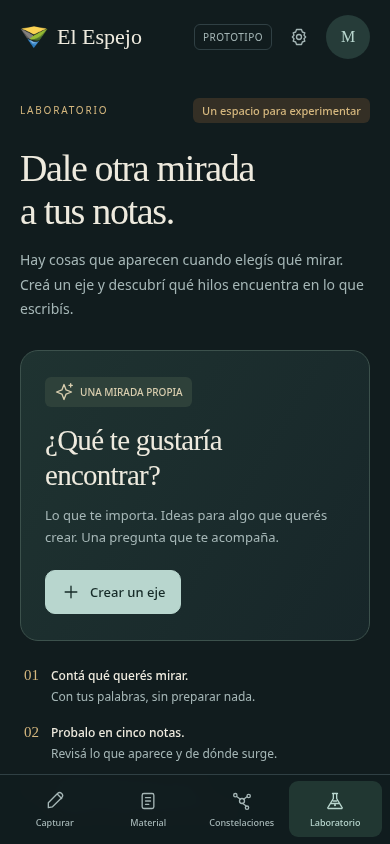
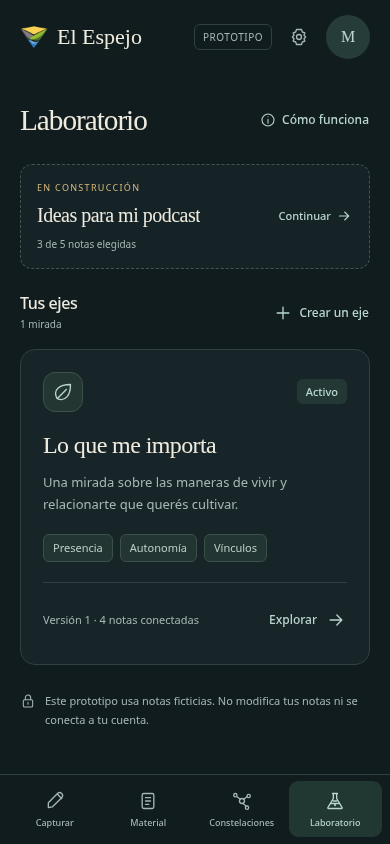
prototype: compact laboratory home and first-visit guidance

diff --git a/prototypes/laboratorio/app.js b/prototypes/laboratorio/app.js
@@ -5,6 +5,7 @@
   const $ = (selector) => document.querySelector(selector);
   const escape = (value = '') => String(value).replace(/[&<>"']/g, c => ({ '&': '&amp;', '<': '&lt;', '>': '&gt;', '"': '&quot;', "'": '&#39;' }[c]));
   const paths = {
+    info: '<circle cx="12" cy="12" r="9"/><path d="M12 11v6M12 7h.01"/>',
     capture: '<path d="m15 4 5 5M4 20l5-1L20 8a2 2 0 0 0-5-5L4 14Z"/>',
     notes: '<rect x="5" y="3" width="14" height="18" rx="2"/><path d="M9 8h6M9 12h6M9 16h4"/>',
     graph: '<circle cx="12" cy="12" r="3"/><circle cx="4" cy="5" r="2"/><circle cx="20" cy="6" r="2"/><circle cx="18" cy="20" r="2"/><path d="m6 7 4 3m4 0 4-3m-5 8 4 3"/>',
@@ -38,6 +39,7 @@
   const state = {
     draft: stored?.draft?.sample ? stored.draft : stored?.initialized ? null : draftDemo(),
     axes: Array.isArray(stored?.axes) ? stored.axes : [demoAxis()],
+    welcomeDismissed: stored?.welcomeDismissed === true,
     page: 'inicio', preview: null, history: [], historyIndex: -1, resultMode: 'graph',
     selected: '', selectedTag: '', graphRevealed: null, zoom: 1, search: '',
     graphVisibility: { note: true, finding: true, label: true }, graphModel: null, graphEntity: null, graphFocusTag: '',
@@ -51,7 +53,7 @@
 
   function save() {
     try {
-      localStorage.setItem(STORE, JSON.stringify({ initialized: true, draft: state.draft, axes: state.axes }));
+      localStorage.setItem(STORE, JSON.stringify({ initialized: true, draft: state.draft, axes: state.axes, welcomeDismissed: state.welcomeDismissed }));
       storageAvailable = true;
     } catch { storageAvailable = false; }
   }
@@ -73,16 +75,16 @@
   function shell(content) {
     return `<div class="layout"><aside class="sidebar" aria-label="Tu espacio"><a class="brand" href="../app-refresh/#capture">${brand}</a><p class="tagline">Un espacio para escucharte.</p><nav aria-label="Secciones principales">${navigation()}</nav><footer><a class="button" href="../app-refresh/#settings">${icon('settings')}Ajustes</a><p>Un lugar para probar, a tu ritmo.</p></footer></aside><div class="workspace"><header class="topbar"><a class="brand" href="../app-refresh/#capture">${brand}</a><span class="top-context">TU ESPACIO PERSONAL / LABORATORIO</span><div class="top-actions"><span class="prototype-label">PROTOTIPO</span><button class="icon-button quiet" data-action="scenarios" aria-label="Probar escenarios de la demostración" title="Probar escenarios">${icon('settings')}</button><button class="avatar" data-action="about" aria-label="Información de esta demostración">M</button></div></header><main id="main" tabindex="-1">${content}</main><nav class="bottom-nav" aria-label="Secciones principales, móvil">${navigation(true)}</nav></div></div>`;
   }
-  function sketch() {
-    return `<svg class="hero-sketch" viewBox="0 0 310 230" fill="none" aria-hidden="true"><ellipse cx="166" cy="115" rx="105" ry="86" stroke="#4f6657" stroke-dasharray="2 7" transform="rotate(-18 166 115)"/><path d="m53 92 93 34 70-76m-70 76 104 42m-104-42 20 76m-20-76 117-25m-117 25-58 58" stroke="#6c8270"/><circle cx="146" cy="126" r="28" fill="#354a3b" stroke="#b5cbb0"/><circle cx="146" cy="126" r="8" stroke="#d7d5ac"/><circle cx="53" cy="92" r="9" fill="#749385"/><circle cx="216" cy="50" r="6" fill="#b5a47a"/><circle cx="250" cy="168" r="12" stroke="#b3c89e"/><circle cx="166" cy="202" r="5" fill="#819b84"/><circle cx="263" cy="101" r="7" fill="#8eaa97"/><circle cx="88" cy="184" r="10" stroke="#9eb293"/><path d="M281 43v12m-6-6h12M80 31v8m-4-4h8" stroke="#c5ba8f"/></svg>`;
-  }
   function home() {
     const draft = state.draft;
-    return `<div class="intro"><div class="heading-row"><p class="kicker">LABORATORIO</p>${pill('Un espacio para experimentar', 'warm')}</div><h1>Dale otra mirada<br>a tus notas.</h1><p>Hay cosas que aparecen cuando elegís qué mirar.<br class="desktop-break"> Creá un eje y descubrí qué hilos encuentra en lo que escribís.</p></div>
-      <section class="hero" aria-labelledby="new-axis-title">${sketch()}<span class="pill">${icon('spark')}UNA MIRADA PROPIA</span><h2 class="hero-title" id="new-axis-title">¿Qué te gustaría<br>encontrar?</h2><p>Lo que te importa. Ideas para algo que querés crear. Una pregunta que te acompaña.</p><button class="primary" data-action="new">${icon('plus')}Crear un eje</button></section>
-      <div class="how-it-works" aria-label="Cómo funciona"><div><span>01</span><p><strong>Contá qué querés mirar.</strong><br>Con tus palabras, sin preparar nada.</p></div><div><span>02</span><p><strong>Probalo en cinco notas.</strong><br>Revisá lo que aparece y de dónde surge.</p></div><div><span>03</span><p><strong>Ajustalo hasta que te sirva.</strong><br>Después, elegí si querés activarlo.</p></div></div>
-      ${draft ? `<div class="section-heading"><h2>Tu mirada en construcción</h2><span class="meta">Sólo en este dispositivo</span></div><article class="axis-card draft"><div class="card-top"><span class="axis-symbol">${icon('edit')}</span>${pill('Borrador', 'warm')}</div><h3>${escape(draft.title || 'Un eje por descubrir')}</h3><p>${escape(draft.purpose || 'Todavía estás encontrando las palabras para esta mirada.')}</p><div class="card-footer"><span class="meta">${draft.sample.length} de 5 notas elegidas</span><button class="text-button" data-action="resume">Continuar${icon('arrow')}</button></div></article>` : ''}
-      <div class="section-heading"><h2>Tus ejes</h2><span class="meta">${state.axes.length} ${state.axes.length === 1 ? 'mirada' : 'miradas'}</span></div><div class="axes-grid">${state.axes.length ? state.axes.map(axisCard).join('') : `<div class="empty"><h2>Tu primera mirada empieza acá.</h2><p>No necesitás tener todo claro. Podés probar y ajustar antes de activar un eje.</p><button class="secondary" data-action="new">Crear mi primer eje${icon('arrow')}</button></div>`}</div><p class="footnote">${icon('lock')}Este prototipo usa notas ficticias. No modifica tus notas ni se conecta a tu cuenta.</p>`;
+    const showWelcome = !state.welcomeDismissed && !draft && !state.axes.length;
+    return `<header class="home-header"><h1>Laboratorio</h1><button class="text-button home-help" data-action="lab-help">${icon('info')}Cómo funciona</button></header>
+      ${draft ? `<section class="draft-resume" aria-labelledby="resume-title"><div><p class="kicker">EN CONSTRUCCIÓN</p><h2 id="resume-title">${escape(draft.title || 'Tu próxima mirada')}</h2><span class="meta">${draft.sample.length ? `${draft.sample.length} de 5 notas elegidas` : 'Tu borrador está listo para continuar'}</span></div><button class="text-button" data-action="resume">Continuar${icon('arrow')}</button></section>` : ''}
+      ${showWelcome ? `<section class="welcome-card" aria-labelledby="welcome-title"><span class="welcome-symbol" aria-hidden="true">${icon('spark')}</span><h2 id="welcome-title">Una mirada nueva sobre tus notas</h2><p>Un eje busca lo que te interesa observar. Podés probarlo en cinco notas y ajustarlo antes de activarlo.</p><div class="welcome-actions"><button class="primary" data-action="new">Crear mi primer eje${icon('arrow')}</button><button class="quiet" data-action="dismiss-welcome">Ahora no</button></div></section>` : `<div class="section-heading axes-heading"><div><h2>Tus ejes</h2>${state.axes.length ? `<span class="meta">${state.axes.length} ${state.axes.length === 1 ? 'mirada' : 'miradas'}</span>` : ''}</div><button class="text-button" data-action="new">${icon('plus')}Crear un eje</button></div><div class="axes-grid">${state.axes.length ? state.axes.map(axisCard).join('') : `<div class="empty"><h2>Tu primera mirada empieza acá.</h2><p>Creá un eje cuando quieras. La ayuda sigue disponible en «Cómo funciona».</p><button class="secondary" data-action="new">Crear mi primer eje${icon('arrow')}</button></div>`}</div>`}
+      <p class="footnote">${icon('lock')}Este prototipo usa notas ficticias. No modifica tus notas ni se conecta a tu cuenta.</p>`;
+  }
+  function laboratoryHelp() {
+    showModal('Cómo funciona Laboratorio', `<p class="help-intro">Una mirada para encontrar nuevos hilos en lo que escribís, a tu ritmo.</p><div class="help-topics"><details><summary>Qué es un eje</summary><p>Es una mirada sobre tus notas: lo que te importa, ideas para un proyecto o una pregunta que te acompaña. Contá qué querés encontrar con tus palabras.</p></details><details><summary>Probar y ajustar</summary><ol><li><strong>Contá qué querés mirar.</strong> Podés partir de un ejemplo.</li><li><strong>Elegí cinco notas.</strong> Revisá los hallazgos y las citas que los sustentan.</li><li><strong>Ajustá hasta que te sirva.</strong> Después, elegí si querés activar el eje para notas nuevas.</li></ol><p>Las notas de la prueba quedan aparte de los resultados del eje activo.</p></details><details><summary>Explorar los resultados</summary><p>Tocá notas o etiquetas para abrir sus conexiones en el grafo. Las referencias de abajo permiten mostrar u ocultar tipos de nodo.</p><p>Cada hallazgo conserva su cita y el acceso a la nota completa. También podés recorrer todo desde la vista Lista.</p></details></div><div class="modal-actions"><button class="secondary" data-action="close-modal">Entendido</button></div>`, 'help-sheet');
   }
   function axisCard(a) {
     return `<article class="axis-card"><div class="card-top"><span class="axis-symbol sage">${icon(a.kind === 'podcast' ? 'audio' : 'leaf')}</span>${pill(a.enabled ? 'Activo' : 'En pausa', a.enabled ? '' : 'neutral')}</div><h3>${escape(a.title)}</h3><p>${a.kind === 'podcast' ? 'Ideas que merecen un espacio para volver a pensarlas.' : 'Una mirada sobre las maneras de vivir y relacionarte que querés cultivar.'}</p>${a.hasResults ? tags(a.kind === 'podcast' ? ['Relatos cotidianos', 'Conversaciones'] : ['Presencia', 'Autonomía', 'Vínculos']) : '<span class="meta">Esperando tus próximas notas</span>'}<div class="card-footer"><span class="meta">Versión ${a.version}${a.hasResults ? ' · 4 notas conectadas' : ''}</span><button class="text-button" data-action="open-axis" data-id="${escape(a.id)}">${a.hasResults ? 'Explorar' : 'Ver eje'}${icon('arrow')}</button></div></article>`;
@@ -280,15 +282,15 @@
     else location.hash = page;
   }
   function freshDraft() {
-    jobGeneration++; state.busy = false; state.scenario = '';
+    jobGeneration++; state.busy = false; state.scenario = ''; state.welcomeDismissed = true;
     state.draft = { title: '', purpose: '', sample: [], kind: '', step: 1, revision: 1, comments: [] };
     state.preview = null; state.history = []; state.historyIndex = -1; state.returnToResults = false;
     state.search = ''; state.feedback = ''; save(); go('crear');
   }
-  function showModal(title, body) {
+  function showModal(title, body, variant = '') {
     if (!$('.modal')) previousFocus = document.activeElement;
     $('#app').inert = true; document.body.style.overflow = 'hidden';
-    $('#modal-root').innerHTML = `<div class="modal-backdrop"><section class="modal" role="dialog" aria-modal="true" aria-labelledby="modal-title"><header class="modal-header"><h2 id="modal-title">${title}</h2><button class="icon-button" data-action="close-modal" aria-label="Cerrar diálogo">${icon('close')}</button></header><div class="modal-body">${body}</div></section></div>`;
+    $('#modal-root').innerHTML = `<div class="modal-backdrop"><section class="modal ${variant}" role="dialog" aria-modal="true" aria-labelledby="modal-title"><header class="modal-header"><h2 id="modal-title">${title}</h2><button class="icon-button" data-action="close-modal" aria-label="Cerrar diálogo">${icon('close')}</button></header><div class="modal-body">${body}</div></section></div>`;
     $('#modal-title').tabIndex = -1; $('#modal-title').focus();
   }
   function closeModal() {
@@ -346,8 +348,8 @@
   }
   function startScenario(name) {
     closeModal(); jobGeneration++; state.busy = false;
-    if (name === 'empty') { state.axes = []; state.draft = null; state.preview = null; state.history = []; save(); go('inicio'); return; }
-    if (name === 'reset') { state.axes = [demoAxis()]; state.draft = draftDemo(); state.preview = null; state.history = []; state.historyIndex = -1; state.returnToResults = false; save(); go('inicio'); toast('Ejemplo inicial restablecido.'); return; }
+    if (name === 'first-visit' || name === 'empty') { state.welcomeDismissed = name !== 'first-visit'; state.axes = []; state.draft = null; state.preview = null; state.history = []; save(); go('inicio'); return; }
+    if (name === 'reset') { state.welcomeDismissed = true; state.axes = [demoAxis()]; state.draft = draftDemo(); state.preview = null; state.history = []; state.historyIndex = -1; state.returnToResults = false; save(); go('inicio'); toast('Ejemplo inicial restablecido.'); return; }
     state.draft = { ...structuredClone(D.examples.values), kind: 'values', revision: 1, comments: [], step: 3 };
     state.history = []; state.historyIndex = -1; state.scenario = name; save(); beginPreview();
   }
@@ -357,6 +359,8 @@
     const action = button.dataset.action;
     if (button.disabled) return;
     if (action === 'close-modal') { closeModal(); return; }
+    if (action === 'lab-help') { laboratoryHelp(); return; }
+    if (action === 'dismiss-welcome') { state.welcomeDismissed = true; save(); render({ scroll: false }); return; }
     if (action === 'home') { save(); go('inicio'); return; }
     if (action === 'new') {
       if (state.draft) showModal('Tenés una mirada en construcción.', '<p>Podés continuar donde la dejaste o empezar otra. Si empezás de nuevo, reemplazás el borrador de esta demostración.</p><div class="modal-actions"><button class="primary" data-action="resume">Continuar mi borrador</button><button class="secondary" data-action="new-confirm">Empezar otro eje</button></div>');
@@ -418,7 +422,7 @@
       state.preview = null; state.history = []; state.historyIndex = -1; state.returnToResults = false; save(); go('crear');
     } else if (action === 'demo-explore') { if (!state.axes.some(a => a.id === 'valores')) state.axes.push(demoAxis()); state.axisId = 'valores'; save(); go('eje-valores'); }
     else if (action === 'about') showModal('Un lugar para experimentar.', '<p>Laboratorio es una propuesta visual de El Espejo. Todo lo que aparece acá —notas, hallazgos y pruebas— es de ejemplo.</p><p>Podés recorrer el flujo completo. El borrador y los ejes de esta demo se conservan en este dispositivo, cuando el navegador lo permite.</p><p>No se llama a la API, no se usa inteligencia artificial y no se modifica tu cuenta.</p><button class="primary" data-action="close-modal">Seguir explorando</button>');
-    else if (action === 'scenarios') showModal('Probar otros momentos.', '<p>Estos escenarios permiten revisar estados del recorrido con datos ficticios.</p><div class="scenario-list"><button data-action="scenario" data-name="empty"><span>Un Laboratorio vacío<small>La primera visita, sin ejes ni borradores.</small></span></button><button data-action="scenario" data-name="failure"><span>Una nota pendiente<small>Conservar resultados y reintentar sólo lo que falta.</small></span></button><button data-action="scenario" data-name="expired"><span>Una prueba vencida<small>Retomar la intención y volver a probar.</small></span></button><button data-action="scenario" data-name="reset"><span>Restablecer la demostración<small>Volver al borrador y eje del inicio.</small></span></button></div>');
+    else if (action === 'scenarios') showModal('Probar otros momentos.', '<p>Estos escenarios permiten revisar estados del recorrido con datos ficticios.</p><div class="scenario-list"><button data-action="scenario" data-name="first-visit"><span>Primera visita<small>Bienvenida breve, sin ejes ni borradores.</small></span></button><button data-action="scenario" data-name="empty"><span>Un Laboratorio vacío<small>Sin ejes ni borradores, con la bienvenida ya vista.</small></span></button><button data-action="scenario" data-name="failure"><span>Una nota pendiente<small>Conservar resultados y reintentar sólo lo que falta.</small></span></button><button data-action="scenario" data-name="expired"><span>Una prueba vencida<small>Retomar la intención y volver a probar.</small></span></button><button data-action="scenario" data-name="reset"><span>Restablecer la demostración<small>Volver al borrador y eje del inicio.</small></span></button></div>');
     else if (action === 'scenario') startScenario(button.dataset.name);
   });
   function updateSelection() {
@@ -448,7 +452,7 @@
     const modal = $('.modal'); if (!modal) return;
     if (event.key === 'Escape') { event.preventDefault(); closeModal(); }
     if (event.key === 'Tab') {
-      const focusable = [...modal.querySelectorAll('button:not(:disabled), a[href], input, textarea, select')];
+      const focusable = [...modal.querySelectorAll('button:not(:disabled), a[href], input, textarea, select, summary')];
       const first = focusable[0], last = focusable.at(-1);
       if (event.shiftKey && (document.activeElement === first || document.activeElement.id === 'modal-title')) { event.preventDefault(); last?.focus(); }
       else if (!event.shiftKey && document.activeElement === last) { event.preventDefault(); first?.focus(); }

diff --git a/prototypes/laboratorio/style.css b/prototypes/laboratorio/style.css
@@ -27,7 +27,7 @@ button, a, input, textarea { -webkit-tap-highlight-color: transparent; }
 button, .button { min-height: 44px; border: 1px solid transparent; border-radius: 10px; padding: 11px 15px; color: inherit; cursor: pointer; background: transparent; font-size: 13px; font-weight: 550; text-decoration: none; display: inline-flex; align-items: center; justify-content: center; gap: 9px; line-height: 1.45; }
 button:hover:not(:disabled), .button:hover { background: var(--raised); }
 button:disabled { opacity: .42; cursor: default; }
-:where(button, a, input, textarea, select, [tabindex]):focus-visible { outline: 2px solid var(--gold); outline-offset: 4px; }
+:where(button, a, input, textarea, select, summary, [tabindex]):focus-visible { outline: 2px solid var(--gold); outline-offset: 4px; }
 h1[tabindex="-1"]:focus { outline: none; }
 a { color: var(--accent); }
 svg.icon { width: 20px; height: 20px; stroke: currentColor; fill: none; stroke-width: 1.6; stroke-linecap: round; stroke-linejoin: round; flex: none; }
@@ -68,17 +68,37 @@ main { padding: 24px 20px 120px; max-width: 1160px; margin: auto; min-width: 0; 
 .section-heading { display: flex; justify-content: space-between; gap: 10px; align-items: center; margin: 34px 0 14px; }
 .section-heading h2 { font-size: 16px; margin: 0; }
 .section-heading .meta { font-size: 11px; }
-.hero { margin-top: 28px; padding: 26px 24px; border-radius: 18px; border: 1px solid #3c514c; background: linear-gradient(120deg, #1f3331, #172629); position: relative; isolation: isolate; }
-.hero .hero-title { font: 29px/1.22 var(--font-editorial); margin: 16px 0 10px; letter-spacing: -.025em; }
-.hero p { max-width: 340px; font-size: 13px; }
-.hero .primary { margin-top: 5px; }
-.hero-sketch { display: none; }
-.hero .pill { background: #2e413a; color: #d9ceaf; font-size: 10px; }
-.how-it-works { display: grid; gap: 15px; padding: 24px 4px 0; }
-.how-it-works div { display: flex; align-items: baseline; gap: 12px; }
-.how-it-works span { color: var(--gold); font: 15px var(--font-editorial); }
-.how-it-works p { margin: 0; font-size: 12px; }
-.how-it-works strong { font-weight: 550; color: var(--ink); }
+.home-header { display: flex; justify-content: space-between; align-items: center; gap: 8px; margin: 0 0 22px; }
+.home-header h1 { font-size: clamp(28px, 7.5vw, 36px); margin: 0; }
+.home-help { font-size: 12px; gap: 6px; white-space: nowrap; }
+.home-help .icon { width: 16px; height: 16px; }
+.draft-resume { display: flex; align-items: center; justify-content: space-between; gap: 14px; padding: 16px; border: 1px dashed #40564f; border-radius: 12px; background: #162326; }
+.draft-resume > div { min-width: 0; }
+.draft-resume .kicker { font-size: 9px; letter-spacing: 1.3px; }
+.draft-resume h2 { font: 20px/1.3 var(--font-editorial); margin: 7px 0 5px; display: -webkit-box; -webkit-line-clamp: 2; -webkit-box-orient: vertical; overflow: hidden; }
+.draft-resume .meta { font-size: 10px; }
+.draft-resume .text-button { flex: none; font-size: 11px; gap: 5px; }
+.draft-resume .icon { width: 16px; height: 16px; }
+.axes-heading { margin-top: 22px; }
+.axes-heading .meta { display: block; font-size: 10px; margin-top: 3px; }
+.axes-heading .text-button { font-size: 12px; gap: 6px; }
+.welcome-card { border: 1px solid #40564f; background: linear-gradient(130deg, #203530, #18282a); padding: 22px; border-radius: 15px; max-width: 600px; }
+.welcome-symbol { display: inline-flex; color: var(--gold); }
+.welcome-card h2 { font: 27px/1.25 var(--font-editorial); letter-spacing: -.025em; margin: 12px 0; max-width: 360px; }
+.welcome-card p { font-size: 13px; max-width: 460px; }
+.welcome-actions { display: flex; align-items: center; flex-wrap: wrap; gap: 6px; margin-top: 18px; }
+.welcome-actions button { font-size: 12px; padding-inline: 12px; }
+.help-topics { border-top: 1px solid var(--line); margin-top: 20px; }
+.help-topics details { border-bottom: 1px solid var(--line); }
+.help-topics summary { min-height: 52px; display: flex; align-items: center; justify-content: space-between; gap: 12px; padding-block: 12px; cursor: pointer; list-style: none; color: var(--ink); font-size: 13px; }
+.help-topics summary::-webkit-details-marker { display: none; }
+.help-topics summary::after { content: '+'; font-size: 20px; color: var(--muted); }
+.help-topics details[open] summary::after { content: '−'; }
+.help-topics p { font-size: 12px; margin-bottom: 16px; }
+.help-topics ol { padding-left: 20px; margin: 2px 0 16px; font-size: 12px; color: var(--muted); line-height: 1.7; }
+.help-topics li + li { margin-top: 12px; }
+.help-topics strong { color: var(--ink); font-weight: 500; }
+.help-sheet .modal-actions { justify-content: flex-end; margin-top: 18px; }
 .axes-grid { display: grid; gap: 14px; }
 .axis-card { border: 1px solid var(--line); border-radius: 15px; padding: 22px; background: var(--surface); min-width: 0; }
 .axis-card.draft { border-style: dashed; background: #162326; }
@@ -278,13 +298,6 @@ blockquote { font: 17px/1.7 var(--font-editorial); color: #d7dbcd; padding: 0 0 
   main { padding-inline: 32px; }
   h1 { font-size: 45px; }
   .workflow h1 { font-size: 40px; }
-  .hero { padding: 34px; min-height: 255px; }
-  .hero p { max-width: 310px; }
-  .hero-sketch { display: block; position: absolute; z-index: -1; right: 4px; top: 12px; width: 260px; height: 225px; opacity: .7; }
-  .hero .hero-title { max-width: 340px; font-size: 34px; }
-  .how-it-works { grid-template-columns: repeat(3, 1fr); gap: 20px; }
-  .how-it-works div { display: block; }
-  .how-it-works p { margin-top: 5px; }
   .axes-grid { grid-template-columns: repeat(2, minmax(0, 1fr)); }
   .steps li { font-size: 12px; gap: 10px; }
   .action-bar .primary { flex: none; min-width: 175px; }
@@ -316,7 +329,6 @@ blockquote { font: 17px/1.7 var(--font-editorial); color: #d7dbcd; padding: 0 0 
   .top-actions { gap: 9px; }
   main { padding: 28px 6.5% 80px; }
   .bottom-nav { display: none; }
-  .hero-sketch { right: 25px; width: 310px; }
   .action-bar { bottom: 0; padding: 20px 0; }
   .toast { bottom: 28px; }
 }

diff --git a/prototypes/laboratorio/README.md b/prototypes/laboratorio/README.md
@@ -19,7 +19,8 @@ prototipo existente de `app-refresh`.
 
 ## Recorridos
 
-- **Inicio:** crear un eje, continuar un borrador local y explorar un eje aceptado.
+- **Inicio:** encabezado compacto, ayuda a demanda, borrador resumido y ejes
+  existentes. «Crear un eje» permanece accesible junto a «Tus ejes».
 - **Tu mirada:** título y finalidad, con ejemplos de valores personales e ideas
   para podcast. No se expone ni se edita un prompt técnico.
 - **Tus notas:** búsqueda, lectura y selección de exactamente cinco notas. La
@@ -34,6 +35,29 @@ prototipo existente de `app-refresh`.
   notas nuevas. Las notas de muestra no se incorporan a los resultados activos.
 - **Eje aceptado:** exploración de resultados de ejemplo, pausa/activación y
   edición mediante un nuevo circuito de prueba y aprobación.
+
+## Bienvenida y ayuda
+
+La pantalla habitual empieza con «Laboratorio» y el acceso «Cómo funciona».
+Se retiraron la presentación grande, la ilustración y los tres pasos permanentes.
+Si hay un borrador, una tarjeta compacta permite continuarlo antes de los ejes.
+
+Sólo si no hay ejes ni borradores y la bienvenida no se descartó, aparece una
+introducción breve con «Crear mi primer eje» y «Ahora no». Empezar la creación o
+posponerla guarda la decisión. Consultar ayuda no la descarta. Una visita sin
+acciones tampoco la marca como completada. En este prototipo se recuerda en
+`localStorage` del dispositivo; con almacenamiento bloqueado, sólo en la pestaña.
+La implementación real deberá recordar la decisión por usuario.
+
+«Cómo funciona» abre un panel desde abajo en móvil y un diálogo centrado en
+escritorio. Tiene tres apartados desplegables: «Qué es un eje», «Probar y ajustar»
+y «Explorar los resultados». Se puede abrir en cualquier visita y cerrar con
+Escape, el botón de cierre o «Entendido», restaurando el foco al acceso de ayuda.
+
+Para comparar los estados, abrir el botón de escenarios junto a «PROTOTIPO»:
+**Primera visita** restablece la bienvenida sin ejes ni borradores;
+**Un Laboratorio vacío** muestra el regreso con la bienvenida ya descartada;
+**Restablecer la demostración** recupera el eje y el borrador del ejemplo.
 
 ## Un grafo con tipos de nodo que se pueden encender y apagar
 
@@ -141,6 +165,10 @@ instalada; no se afirma una integración con el backend.
 
 - [Inicio · escritorio](screenshots/inicio-desktop.png)
 - [Inicio · móvil](screenshots/inicio-mobile-viewport.png)
+- [Bienvenida · móvil](screenshots/bienvenida-mobile.png)
+- [Bienvenida · escritorio](screenshots/bienvenida-desktop.png)
+- [Ayuda desplegable · móvil](screenshots/ayuda-mobile.png)
+- [Regreso sin ejes · móvil](screenshots/regreso-vacio-mobile.png)
 - [Describir la mirada · móvil](screenshots/intencion-mobile.png)
 - [Elegir las notas · móvil](screenshots/muestra-mobile.png)
 - [Resultados · escritorio](screenshots/resultados-desktop.png)
